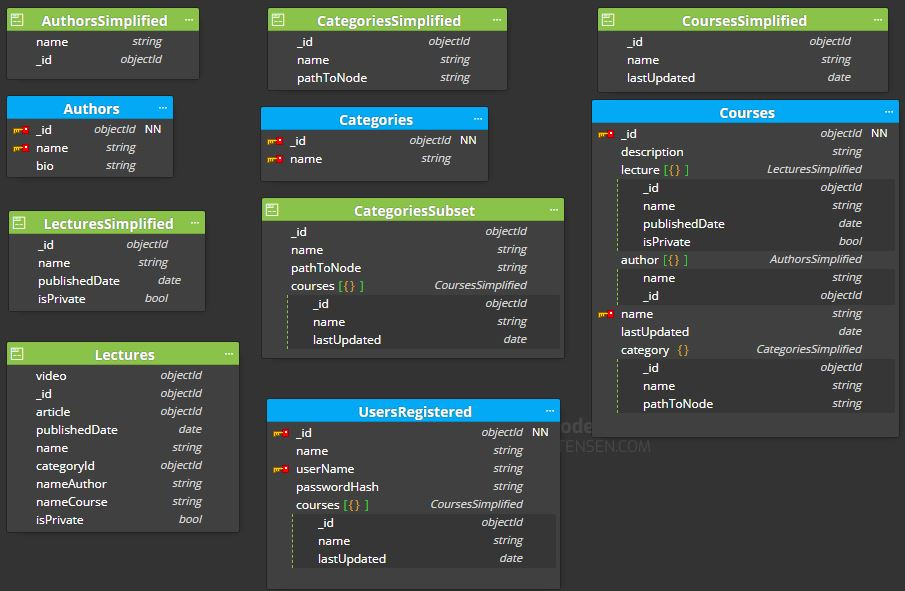
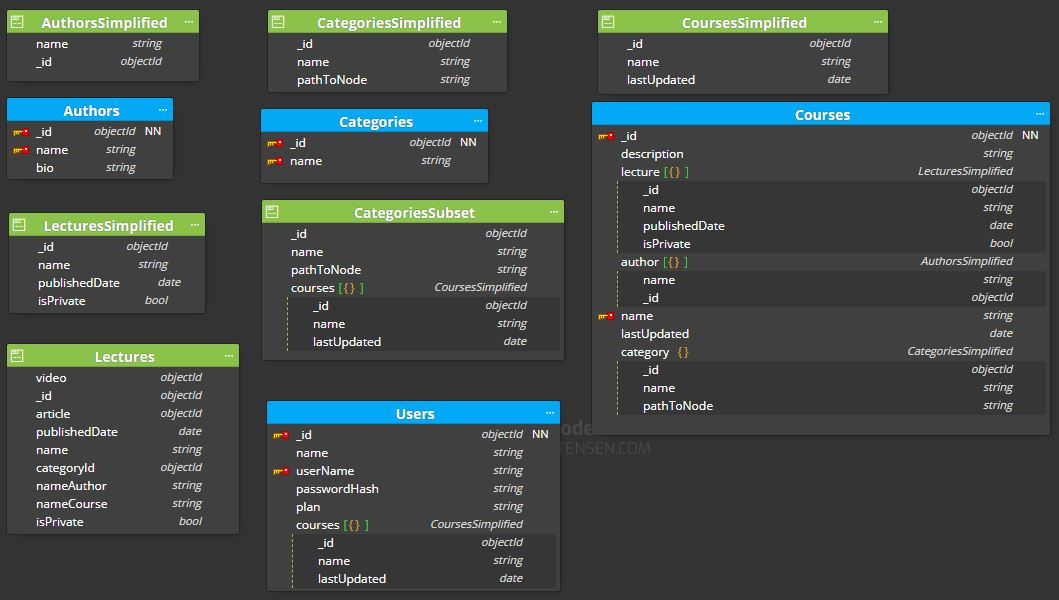
Changed second approach image

diff --git a/2.advanced/Scripts/Users.js b/2.advanced/Scripts/Users.js
@@ -1,3 +1,3 @@
 
-db.createCollection( 'Users', {validator: {$jsonSchema: {bsonType: 'object',title:'Users',properties: {name: {bsonType: 'string'},userName: {bsonType: 'string'},passwordHash: {bsonType: 'string'},courses: {bsonType: 'array',items: {
+db.createCollection( 'Users', {validator: {$jsonSchema: {bsonType: 'object',title:'Users',properties: {name: {bsonType: 'string'},userName: {bsonType: 'string'},passwordHash: {bsonType: 'string'},plan: {bsonType: 'string'},courses: {bsonType: 'array',items: {
 title:'CoursesSimplified',properties: {name: {bsonType: 'string'},lastUpdated: {bsonType: 'date'}}}}}         }      }});  
